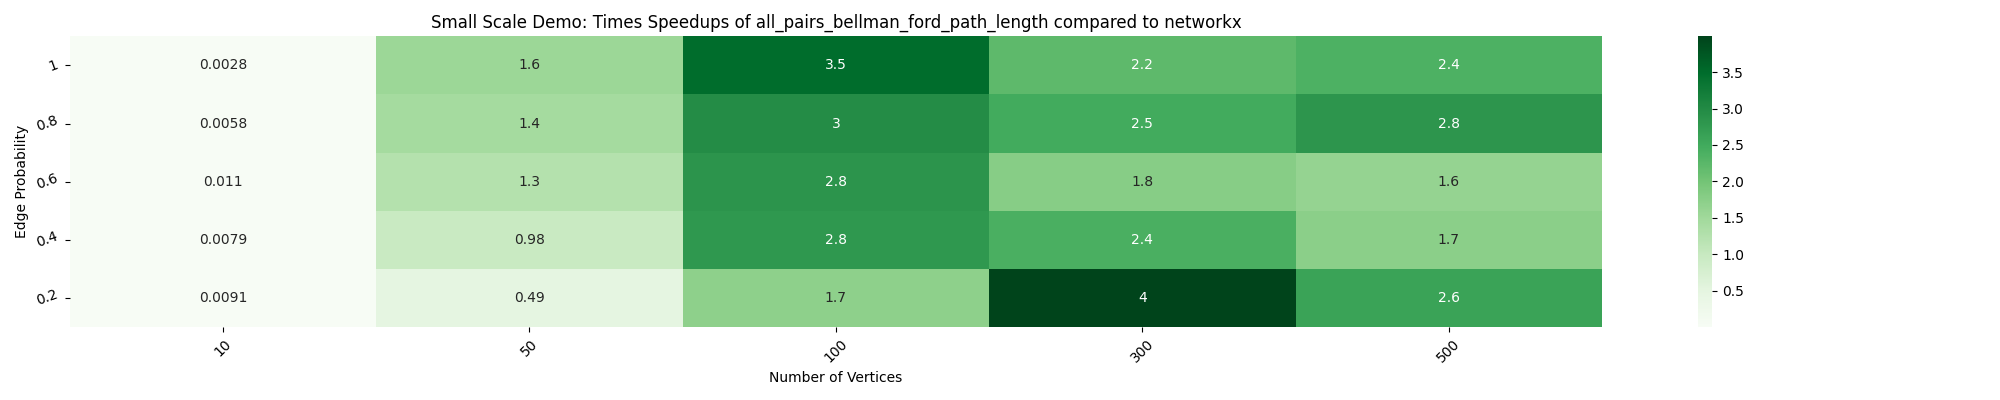
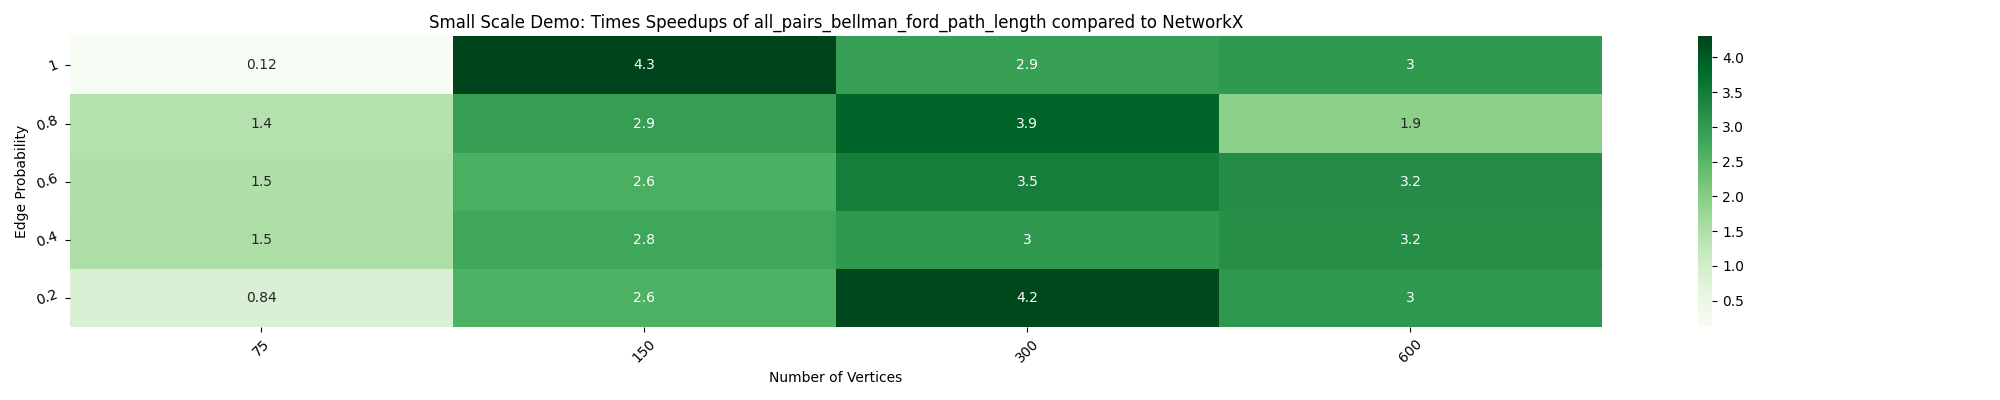
initial commit

diff --git a/timing/timing_individual_function.py b/timing/timing_individual_function.py
@@ -1,4 +1,4 @@
-import time
+import timeit
 import random
 import types
 
@@ -9,22 +9,27 @@ from matplotlib import pyplot as plt
 
 import nx_parallel as nxp
 
+
+def execFunc(func, *args, **kwargs):
+    c = func(*args, **kwargs)
+    if isinstance(c, types.GeneratorType):
+        d = dict(c)
+    return d
+
+
 # Code to create README heatmaps for individual function currFun
 heatmapDF = pd.DataFrame()
 # for bipartite graphs
 # n = [50, 100, 200, 400]
 # m = [25, 50, 100, 200]
-number_of_nodes_list = [75, 150, 300, 600]
+nodes = [75, 150, 300, 600]
 weighted = False
 pList = [1, 0.8, 0.6, 0.4, 0.2]
-currFun = nx.bipartite.node_redundancy
-currFun = nx.square_clustering
+currFun = nx.all_pairs_bellman_ford_path_length
 for p in pList:
-    for num in range(len(number_of_nodes_list)):
+    for num in nodes:
         # create original and parallel graphs
-        G = nx.fast_gnp_random_graph(
-            number_of_nodes_list[num], p, seed=42, directed=True
-        )
+        G = nx.fast_gnp_random_graph(num, p, seed=42, directed=True)
 
         """
         # for bipartite.node_redundancy
@@ -48,35 +53,20 @@ for p in pList:
         H = nxp.ParallelGraph(G)
 
         # time both versions and update heatmapDF
-        t1 = time.time()
-        c1 = currFun(H)
-        if isinstance(c1, types.GeneratorType):
-            d = dict(c1)
-        t2 = time.time()
-        parallelTime = t2 - t1
-        t1 = time.time()
-        c2 = currFun(G)
-        if isinstance(c2, types.GeneratorType):
-            d = dict(c2)
-        t2 = time.time()
-        stdTime = t2 - t1
+        parallelTime = timeit.timeit(lambda: execFunc(currFun, H), number=1)
+        stdTime = timeit.timeit(lambda: execFunc(currFun, G), number=1)
         timesFaster = stdTime / parallelTime
-        heatmapDF.at[number_of_nodes_list[num], p] = timesFaster
+        heatmapDF.at[num, p] = timesFaster
         print("Finished " + str(currFun))
 
 # Code to create for row of heatmap specifically for tournaments
 # for p in pList:
-#     for num in number_of_nodes_list):
+#     for num in nodes:
 #         G = nx.tournament.random_tournament(num)
 #         H = nx_parallel.ParallelDiGraph(G)
-#         t1 = time.time()
-#         c = nx.tournament.is_reachable(H, 1, num)
-#         t2 = time.time()
-#         parallelTime = t2-t1
-#         t1 = time.time()
-#         c = nx.tournament.is_reachable(G, 1, num)
-#         t2 = time.time()
-#         stdTime = t2-t1
+#         parallelTime = timeit.timeit(lambda: nx.tournament.is_reachable(H, 1, num), number=1)
+#         stdTime = timeit.timeit(lambda: nx.tournament.is_reachable(G, 1, num), number=1)
+#         timesFaster = stdTime / parallelTime
 #         timesFaster = stdTime/parallelTime
 #         heatmapDF.at[num, 3] = timesFaster
 
@@ -88,7 +78,7 @@ hm = sns.heatmap(data=heatmapDF.T, annot=True, cmap="Greens", cbar=True)
 hm.set_yticklabels(pList)
 
 # Adding x-axis labels
-hm.set_xticklabels(number_of_nodes_list)
+hm.set_xticklabels(nodes)
 
 # Rotating the x-axis labels for better readability (optional)
 plt.xticks(rotation=45)
